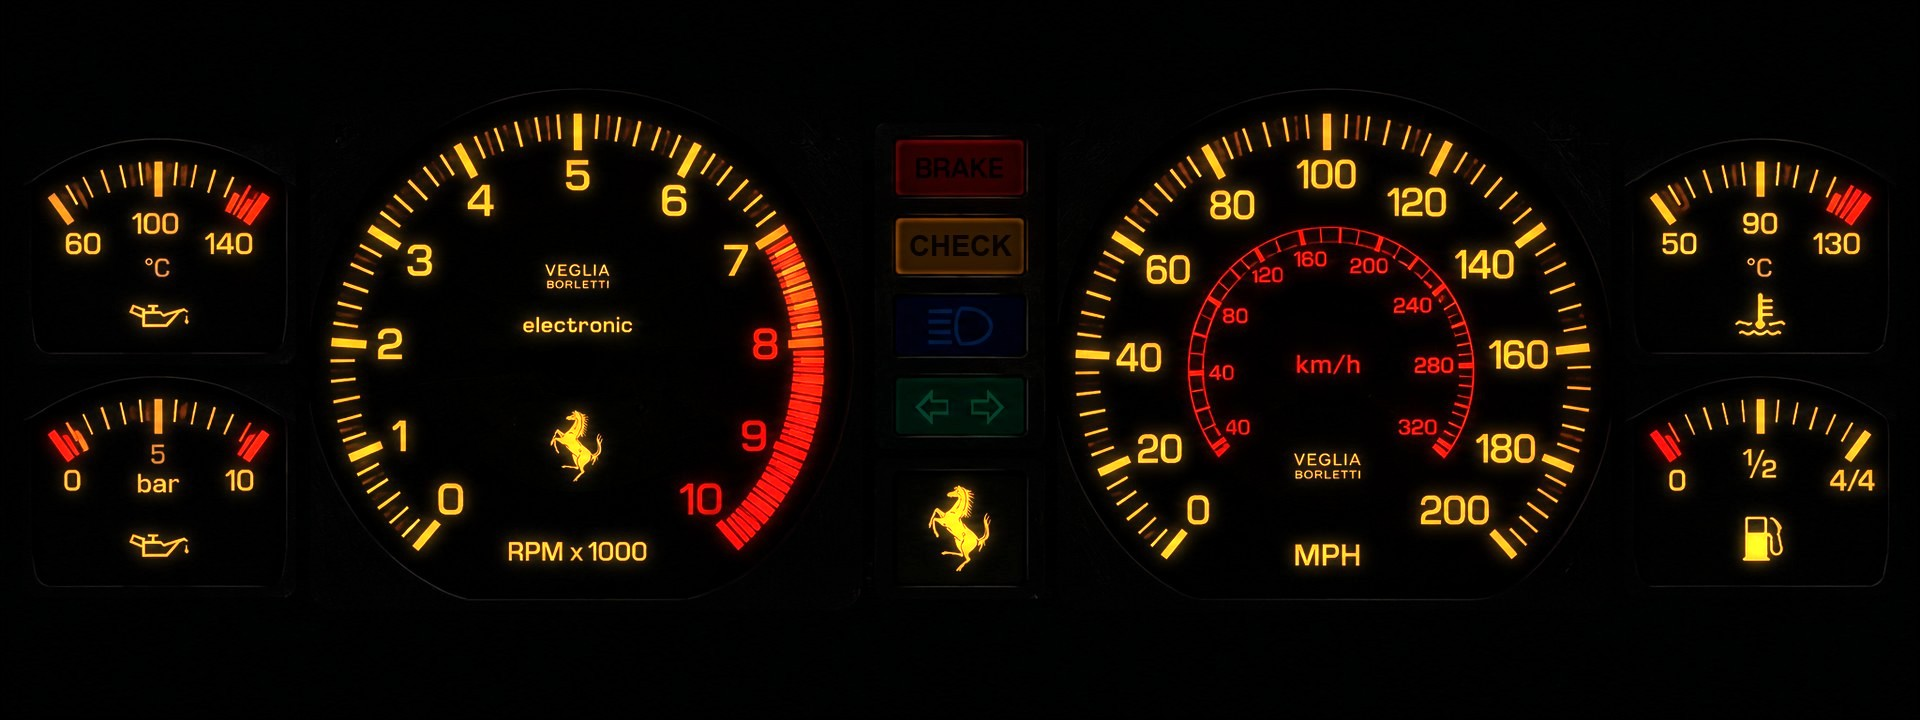
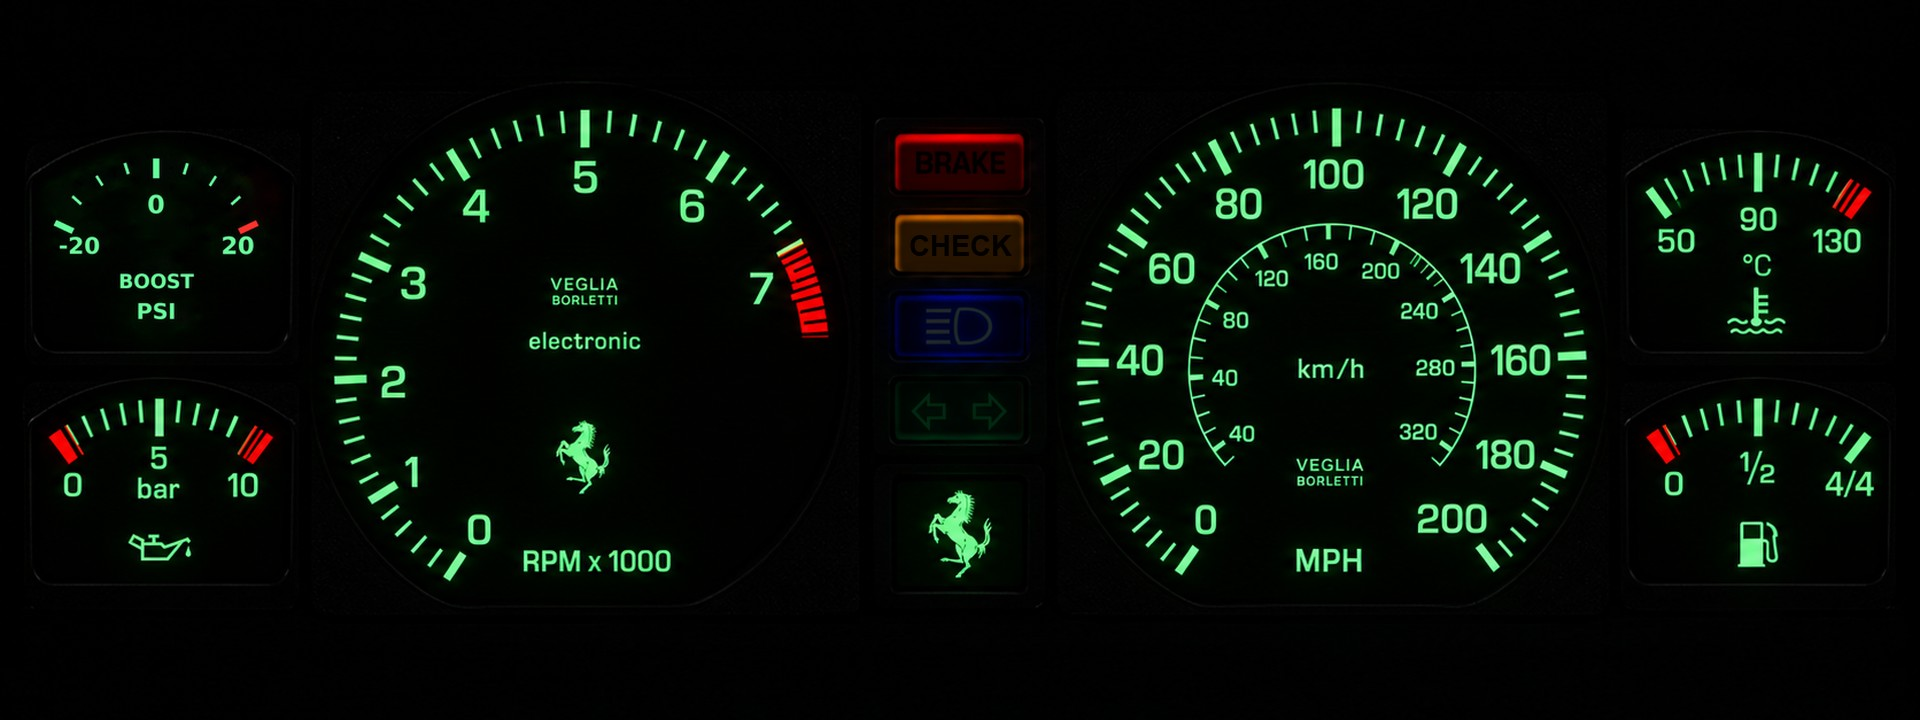
Old-school Ferrari: the owner's day and night pictures, boost top left
The new face prints a 0-7 tach, a boost gauge (-20 to 20 psi) where the
oil-temperature dial was, and a green-lit night picture. Every dial is
measured again; the lamps stay dark in both pictures and light from the
sprite (CHECK in place of ABS, the headlight lamp from the night picture).

diff --git a/hardware/ui/skins.js b/hardware/ui/skins.js
@@ -19,13 +19,6 @@
       const t = snapshot.trip || trip(), litres = t?.remaining_l, tank = t?.settings?.capacity_l;
       return Number.isFinite(litres) && tank > 0 ? Math.max(0, Math.min(100, litres / tank * 100)) : null;
     },
-    // Manifold pressure, kPa absolute: about 86 standing still at 5,000 ft.
-    mapKpa(snapshot, live) {
-      const map = live('ecu.map_kpa');
-      if (map !== null) return map;
-      const boost = live('engine.boost_kpa'), baro = live('ecu.baro_kpa');
-      return boost === null ? null : boost + (baro ?? 86);
-    },
     odometerMiles() { const km = trip()?.odometer_km; return Number.isFinite(km) ? mph(km) : null; },
     boostPsi(snapshot, live) { const kpa = live('engine.boost_kpa'); return kpa === null ? null : kpa * .145037738; }
   };
@@ -35,33 +28,32 @@
   const odometerText = () => { const miles = READ.odometerMiles(); return miles === null ? '------' : String(Math.floor(miles) % 1000000).padStart(6, '0'); };
 
   const SKINS = {
-    // Each face has a night picture (tools: the owner's picture with its illumination lit):
-    // the Fox markings glow teal with backlit LCDs, the Saleen's white faces glow blue-green,
-    // the Ferrari's orange gets brighter.
-    // Veglia Borletti cluster from the owner's picture. Its faces are printed in °C, bar and
-    // MPH, so these needles keep those units whatever the dash's own unit setting is.
+    // Each face has a night picture, the cluster with its illumination lit: the owner's own
+    // for the Ferrari (green) and the Fox; a stand-in for the Saleen.
+    // Veglia Borletti cluster from the owner's day and night pictures. Its faces are printed in
+    // psi, °C, bar and MPH, so these needles keep those units whatever the dash's own unit
+    // setting is.
     'skin-ferrari': {
       face: 'skins/ferrari.jpg', night: 'skins/ferrari-night.jpg', lit: 'skins/ferrari-lamps.jpg', litAt: [890, 134],
       needle: {body: '#ff7418', edge: '#ffd2a0', glow: '#ff6a00'},
       dials: [
-        {id: 'rpm', signal: 'engine.rpm', pivot: [577.1, 363.4], length: 226, tail: 38, width: 10, hub: 22,
-         marks: [[0, 415, 547.5], [1000, 350, 457.5], [2000, 332.5, 342.5], [3000, 370, 230], [4000, 457.5, 145], [5000, 577.5, 115],
-                 [6000, 697.5, 145], [7000, 785, 227.5], [8000, 822.5, 342.5], [10000, 735, 545]]},
-        {id: 'speed', signal: 'vehicle.speed_kph', convert: mph, pivot: [1332.5, 371], length: 228, tail: 38, width: 10, hub: 22,
-         marks: [[0, 1162.5, 554], [20, 1100, 472.5], [40, 1076, 354], [60, 1115, 235], [80, 1207.5, 144], [100, 1326.5, 114],
-                 [120, 1447.5, 144], [140, 1542.5, 227.5], [160, 1589, 349], [180, 1572.5, 467.5], [200, 1515, 552.5]]},
-        // The small dials pivot just below their faces, as on the real cluster; the needle
-        // shows only inside its face. The car has no oil temperature sender: the top-left
-        // dial shows manifold pressure, its printed 60-140 read as kPa absolute
-        // (about 86 at rest here, 140 at 8 psi of boost).
-        {id: 'map', read: READ.mapKpa, pivot: [158.5, 352], length: 184, width: 7, clip: [36, 140, 282, 340],
-         marks: [[60, 50, 195], [100, 158.5, 161.5], [140, 267.5, 195]]},
-        {id: 'oil', signal: 'engine.oil_pressure_psi', convert: bar, pivot: [158.5, 591], length: 184, width: 7, clip: [36, 378, 282, 580],
-         marks: [[0, 50, 432.5], [5, 158.5, 400], [10, 267.5, 432.5]]},
-        {id: 'coolant', signal: 'engine.coolant_c', pivot: [1760, 352], length: 184, width: 7, clip: [1638, 140, 1884, 340],
-         marks: [[50, 1652.5, 195], [90, 1760, 161.5], [130, 1867.5, 195]]},
-        {id: 'fuel', read: READ.fuelPct, pivot: [1760, 591], length: 184, width: 7, clip: [1638, 378, 1884, 580],
-         marks: [[0, 1652.5, 432.5], [50, 1760, 400], [100, 1867.5, 432.5]]}
+        // Tach 0-7 (x1000), its red band running on to 7500.
+        {id: 'rpm', signal: 'engine.rpm', pivot: [583, 365], length: 222, tail: 38, width: 10, hub: 22,
+         marks: [[0, 454.5, 565.7], [1000, 382.6, 492.2], [2000, 350, 379], [3000, 374.1, 261.8], [4000, 457.7, 164.1], [5000, 584.7, 128.5],
+                 [6000, 717.3, 166.5], [7000, 799.5, 269.5], [7500, 817.5, 332]]},
+        {id: 'speed', signal: 'vehicle.speed_kph', convert: mph, pivot: [1333, 370], length: 226, tail: 38, width: 10, hub: 22,
+         marks: [[0, 1186.6, 559.6], [20, 1115, 474.5], [40, 1092.5, 362.5], [60, 1131.8, 235.7], [80, 1219.4, 156.6], [100, 1336, 126.9],
+                 [120, 1454.2, 159.4], [140, 1537.2, 241], [160, 1571.6, 355.4], [180, 1553.3, 468.8], [200, 1487.2, 557]]},
+        // The small dials' needles show only inside their faces, from just under the printing:
+        // boost (psi) top left, oil (bar) under it, coolant (degC) top right, fuel under it.
+        {id: 'boost', read: READ.boostPsi, pivot: [155.5, 270], length: 98, width: 6, clip: [36, 140, 282, 258],
+         marks: [[-20, 63.5, 226.4], [0, 155.5, 167.6], [20, 247.8, 226.8]]},
+        {id: 'oil', signal: 'engine.oil_pressure_psi', convert: bar, pivot: [159, 588], length: 162, width: 7, clip: [36, 378, 282, 580],
+         marks: [[0, 64, 447.5], [5, 159, 417.1], [10, 255, 447.5]]},
+        {id: 'coolant', signal: 'engine.coolant_c', pivot: [1758, 335], length: 160, width: 7, clip: [1638, 140, 1884, 330],
+         marks: [[50, 1658.4, 202.4], [90, 1757.5, 172], [130, 1857.5, 202.6]]},
+        {id: 'fuel', read: READ.fuelPct, pivot: [1757, 590], length: 168, width: 7, clip: [1638, 378, 1884, 580],
+         marks: [[0, 1665, 445], [50, 1757.5, 416.6], [100, 1857.1, 447.4]]}
       ],
       // Lamps: lit from the dash's own indicators. The amber one (ABS in the photo) is CHECK:
       // an alert going off, and a tap on it opens the Alerts tab.

diff --git a/preview/skins.js b/preview/skins.js
@@ -19,13 +19,6 @@
       const t = snapshot.trip || trip(), litres = t?.remaining_l, tank = t?.settings?.capacity_l;
       return Number.isFinite(litres) && tank > 0 ? Math.max(0, Math.min(100, litres / tank * 100)) : null;
     },
-    // Manifold pressure, kPa absolute: about 86 standing still at 5,000 ft.
-    mapKpa(snapshot, live) {
-      const map = live('ecu.map_kpa');
-      if (map !== null) return map;
-      const boost = live('engine.boost_kpa'), baro = live('ecu.baro_kpa');
-      return boost === null ? null : boost + (baro ?? 86);
-    },
     odometerMiles() { const km = trip()?.odometer_km; return Number.isFinite(km) ? mph(km) : null; },
     boostPsi(snapshot, live) { const kpa = live('engine.boost_kpa'); return kpa === null ? null : kpa * .145037738; }
   };
@@ -35,33 +28,32 @@
   const odometerText = () => { const miles = READ.odometerMiles(); return miles === null ? '------' : String(Math.floor(miles) % 1000000).padStart(6, '0'); };
 
   const SKINS = {
-    // Each face has a night picture (tools: the owner's picture with its illumination lit):
-    // the Fox markings glow teal with backlit LCDs, the Saleen's white faces glow blue-green,
-    // the Ferrari's orange gets brighter.
-    // Veglia Borletti cluster from the owner's picture. Its faces are printed in °C, bar and
-    // MPH, so these needles keep those units whatever the dash's own unit setting is.
+    // Each face has a night picture, the cluster with its illumination lit: the owner's own
+    // for the Ferrari (green) and the Fox; a stand-in for the Saleen.
+    // Veglia Borletti cluster from the owner's day and night pictures. Its faces are printed in
+    // psi, °C, bar and MPH, so these needles keep those units whatever the dash's own unit
+    // setting is.
     'skin-ferrari': {
       face: 'skins/ferrari.jpg', night: 'skins/ferrari-night.jpg', lit: 'skins/ferrari-lamps.jpg', litAt: [890, 134],
       needle: {body: '#ff7418', edge: '#ffd2a0', glow: '#ff6a00'},
       dials: [
-        {id: 'rpm', signal: 'engine.rpm', pivot: [577.1, 363.4], length: 226, tail: 38, width: 10, hub: 22,
-         marks: [[0, 415, 547.5], [1000, 350, 457.5], [2000, 332.5, 342.5], [3000, 370, 230], [4000, 457.5, 145], [5000, 577.5, 115],
-                 [6000, 697.5, 145], [7000, 785, 227.5], [8000, 822.5, 342.5], [10000, 735, 545]]},
-        {id: 'speed', signal: 'vehicle.speed_kph', convert: mph, pivot: [1332.5, 371], length: 228, tail: 38, width: 10, hub: 22,
-         marks: [[0, 1162.5, 554], [20, 1100, 472.5], [40, 1076, 354], [60, 1115, 235], [80, 1207.5, 144], [100, 1326.5, 114],
-                 [120, 1447.5, 144], [140, 1542.5, 227.5], [160, 1589, 349], [180, 1572.5, 467.5], [200, 1515, 552.5]]},
-        // The small dials pivot just below their faces, as on the real cluster; the needle
-        // shows only inside its face. The car has no oil temperature sender: the top-left
-        // dial shows manifold pressure, its printed 60-140 read as kPa absolute
-        // (about 86 at rest here, 140 at 8 psi of boost).
-        {id: 'map', read: READ.mapKpa, pivot: [158.5, 352], length: 184, width: 7, clip: [36, 140, 282, 340],
-         marks: [[60, 50, 195], [100, 158.5, 161.5], [140, 267.5, 195]]},
-        {id: 'oil', signal: 'engine.oil_pressure_psi', convert: bar, pivot: [158.5, 591], length: 184, width: 7, clip: [36, 378, 282, 580],
-         marks: [[0, 50, 432.5], [5, 158.5, 400], [10, 267.5, 432.5]]},
-        {id: 'coolant', signal: 'engine.coolant_c', pivot: [1760, 352], length: 184, width: 7, clip: [1638, 140, 1884, 340],
-         marks: [[50, 1652.5, 195], [90, 1760, 161.5], [130, 1867.5, 195]]},
-        {id: 'fuel', read: READ.fuelPct, pivot: [1760, 591], length: 184, width: 7, clip: [1638, 378, 1884, 580],
-         marks: [[0, 1652.5, 432.5], [50, 1760, 400], [100, 1867.5, 432.5]]}
+        // Tach 0-7 (x1000), its red band running on to 7500.
+        {id: 'rpm', signal: 'engine.rpm', pivot: [583, 365], length: 222, tail: 38, width: 10, hub: 22,
+         marks: [[0, 454.5, 565.7], [1000, 382.6, 492.2], [2000, 350, 379], [3000, 374.1, 261.8], [4000, 457.7, 164.1], [5000, 584.7, 128.5],
+                 [6000, 717.3, 166.5], [7000, 799.5, 269.5], [7500, 817.5, 332]]},
+        {id: 'speed', signal: 'vehicle.speed_kph', convert: mph, pivot: [1333, 370], length: 226, tail: 38, width: 10, hub: 22,
+         marks: [[0, 1186.6, 559.6], [20, 1115, 474.5], [40, 1092.5, 362.5], [60, 1131.8, 235.7], [80, 1219.4, 156.6], [100, 1336, 126.9],
+                 [120, 1454.2, 159.4], [140, 1537.2, 241], [160, 1571.6, 355.4], [180, 1553.3, 468.8], [200, 1487.2, 557]]},
+        // The small dials' needles show only inside their faces, from just under the printing:
+        // boost (psi) top left, oil (bar) under it, coolant (degC) top right, fuel under it.
+        {id: 'boost', read: READ.boostPsi, pivot: [155.5, 270], length: 98, width: 6, clip: [36, 140, 282, 258],
+         marks: [[-20, 63.5, 226.4], [0, 155.5, 167.6], [20, 247.8, 226.8]]},
+        {id: 'oil', signal: 'engine.oil_pressure_psi', convert: bar, pivot: [159, 588], length: 162, width: 7, clip: [36, 378, 282, 580],
+         marks: [[0, 64, 447.5], [5, 159, 417.1], [10, 255, 447.5]]},
+        {id: 'coolant', signal: 'engine.coolant_c', pivot: [1758, 335], length: 160, width: 7, clip: [1638, 140, 1884, 330],
+         marks: [[50, 1658.4, 202.4], [90, 1757.5, 172], [130, 1857.5, 202.6]]},
+        {id: 'fuel', read: READ.fuelPct, pivot: [1757, 590], length: 168, width: 7, clip: [1638, 378, 1884, 580],
+         marks: [[0, 1665, 445], [50, 1757.5, 416.6], [100, 1857.1, 447.4]]}
       ],
       // Lamps: lit from the dash's own indicators. The amber one (ABS in the photo) is CHECK:
       // an alert going off, and a tap on it opens the Alerts tab.

diff --git a/preview/dash.html b/preview/dash.html
@@ -517,7 +517,7 @@
 <script src="units.js?v=7f934be8abf3"></script>
 <script src="review.js?v=c6ec99c5fdab"></script>
 <script src="instruments.js?v=f99ebd832402"></script>
-<script src="skins.js?v=d4f2ebf2a4e4"></script>
+<script src="skins.js?v=99e53436bcd2"></script>
 <script src="personalize.js?v=6bb50c768489"></script>
 <script src="trip.js?v=8663447547eb"></script>
 <script src="driving.js?v=ec6c08585e9b"></script>

diff --git a/tests/browser_skins.py b/tests/browser_skins.py
@@ -44,9 +44,9 @@ async def main(path):
         assert -12 < oil < 0, oil
         # Every dial is wired: the top-left one (an oil temperature dial in the picture) shows
         # manifold pressure, and fuel the dash's estimate when there is no sender.
-        for dial in ('rpm', 'speed', 'map', 'oil', 'coolant', 'fuel'):
+        for dial in ('rpm', 'speed', 'boost', 'oil', 'coolant', 'fuel'):
             assert await page.locator(f'.skin-dial[data-dial="{dial}"]').get_attribute('data-quality') == 'live', dial
-        assert await page.evaluate(NEEDLE, 'map') > 25, 'About 141 kPa absolute at 55 kPa of boost: the top of its scale'
+        assert await page.evaluate(NEEDLE, 'boost') > 20, 'About 8 psi at 55 kPa of boost'
         # The dash fits on the photo's black edges: top bar and buttons above it, all clickable.
         for selector in ('#drive-launch', '#alerts-launch', '#appearance-launch'):
             box = await page.locator(selector).bounding_box()
